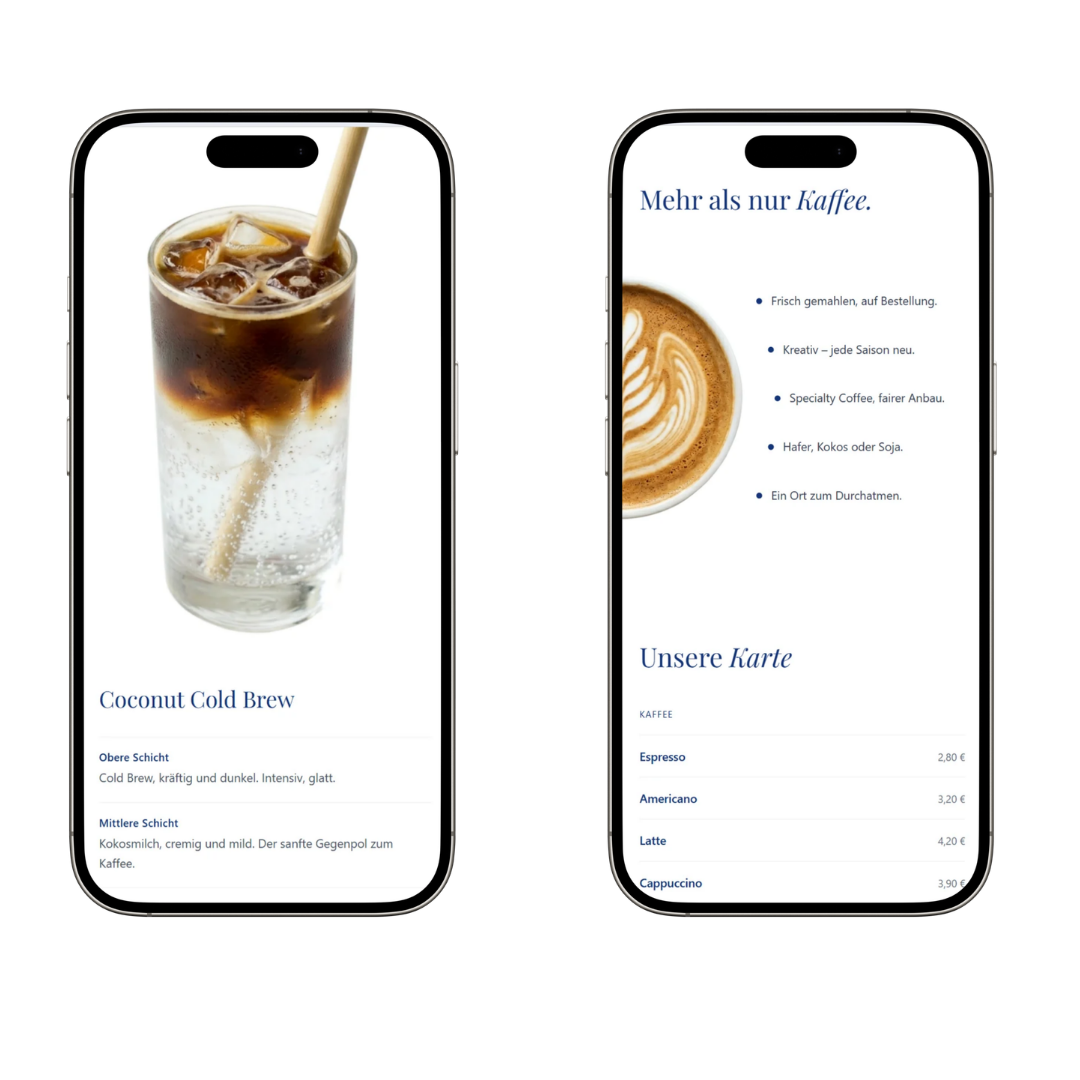
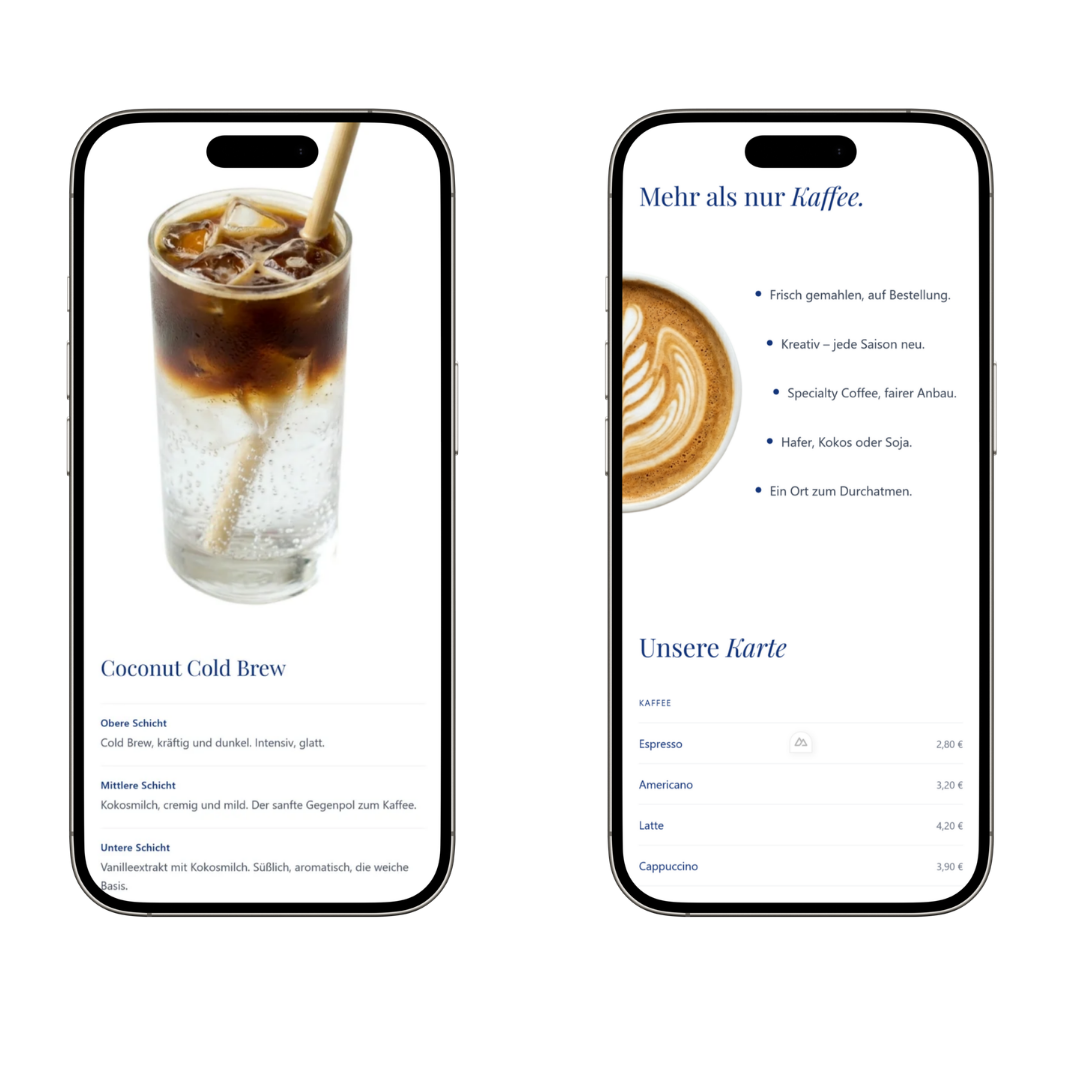
Referenzen angepasst

diff --git a/components/Referenzen/RefKonzeptBanner.vue b/components/Referenzen/RefKonzeptBanner.vue
@@ -34,7 +34,7 @@ h3 {
 }
 
 .subtext {
-  @apply text-(--primary-black)/80 text-base lg:text-xl max-w-md;
+  @apply text-(--primary-black)/80 text-sm lg:text-xl max-w-md;
 }
 
 .btn {